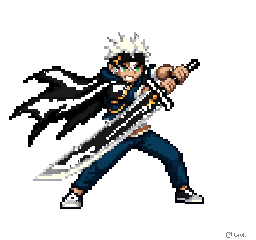
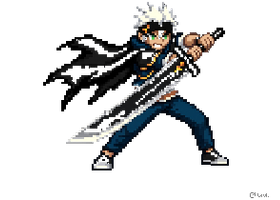
feat: use the full 7-frame run cycle for the sprite
Replace the two-frame run with all seven frames. Align them on the
runner's body rather than the canvas centre -- the cape makes the frames
203 to 255px wide, so centring on the canvas swung the figure ~35px
sideways between frames. Idle and alert are rebuilt on the same 280x200
canvas so the character does not jump when the state changes.

Split the animation clock from the movement clock: position still steps
10px every 100ms like oneko, but the cycle advances every 70ms, since
seven frames on the move tick would take 700ms per stride and read as a
plod rather than a run.

Changed region(s): [[0.0312, 0.0, 0.8438, 0.9], [0.875, 0.96, 0.9688, 1.0]]

diff --git a/src/components/common/RunnerPet.tsx b/src/components/common/RunnerPet.tsx
@@ -13,16 +13,26 @@ import { useEffect, useRef } from "react";
 
 const SPRITES = {
   idle: "/runner/idle.png",
-  run: ["/runner/run-1.png", "/runner/run-2.png"],
+  run: [
+    "/runner/run-1.png",
+    "/runner/run-2.png",
+    "/runner/run-3.png",
+    "/runner/run-4.png",
+    "/runner/run-5.png",
+    "/runner/run-6.png",
+    "/runner/run-7.png",
+  ],
   alert: "/runner/alert.png",
 };
 
-// oneko's timing: a fixed 10px step on a 100ms tick, so ~100px/sec with
-// the run cycle advancing once per step.
+// oneko's motion: a fixed 10px step on a 100ms tick, ~100px/sec.
 const STEP = 10;
 const TICK_MS = 100;
+// The 7-frame run cycle advances faster than the move tick, so a full
+// stride reads as a run rather than a plod.
+const FRAME_MS = 70;
 const HEIGHT = 56; // rendered sprite height in px
-const WIDTH = Math.round((HEIGHT * 256) / 240);
+const WIDTH = Math.round((HEIGHT * 280) / 200);
 const STOP_DISTANCE = 48; // matches oneko
 
 export default function RunnerPet() {
@@ -61,25 +71,28 @@ export default function RunnerPet() {
       }
     };
 
-    const tick = (now: number) => {
-      // Step on a fixed interval like oneko, rather than every frame.
-      if (now - lastFrameAt < TICK_MS) {
-        raf = requestAnimationFrame(tick);
-        return;
-      }
-      lastFrameAt = now;
+    let lastStepAt = performance.now();
 
+    const tick = (now: number) => {
       const dx = targetX - x;
       const dy = targetY - y;
       const distance = Math.hypot(dx, dy);
+      const chasing = distance > STOP_DISTANCE;
 
-      if (distance > STOP_DISTANCE) {
+      // Position steps on oneko's 100ms cadence.
+      if (chasing && now - lastStepAt >= TICK_MS) {
+        lastStepAt = now;
         x += (dx / distance) * STEP;
         y += (dy / distance) * STEP;
-
         if (Math.abs(dx) > 2) facingLeft = dx < 0;
+      }
 
-        frame = (frame + 1) % SPRITES.run.length;
+      // The run cycle runs on its own, faster clock.
+      if (chasing) {
+        if (now - lastFrameAt >= FRAME_MS) {
+          lastFrameAt = now;
+          frame = (frame + 1) % SPRITES.run.length;
+        }
         setSprite(SPRITES.run[frame]);
       } else {
         // Caught up: brief alert pose, then settle into idle. Reset the run
